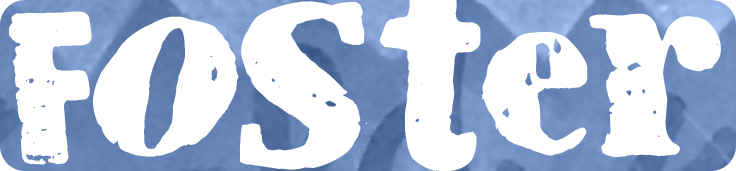
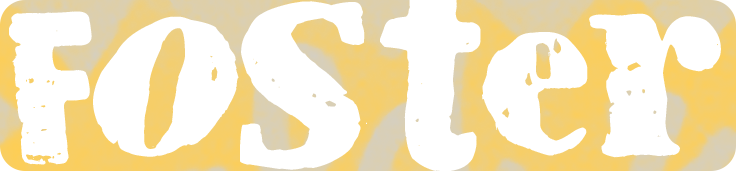
Added yellows

diff --git a/wp-content/themes/tucsoncoldwetnoses/style.css b/wp-content/themes/tucsoncoldwetnoses/style.css
@@ -779,10 +779,10 @@ a:active {
 	box-sizing: content-box;
 	padding: 0;
 	font-family: 'FontAwesome';
-	background-color: rgba(8,181,214,.7) !important;
+	background-color: rgba(246,206,104, .6) !important;
 	border: 0;
 	content: "";
-	color: #000;
+	color: #fff;
 	text-transform: lowercase; /* Stop screen readers from reading the text as capital letters */
 }
 
@@ -799,7 +799,6 @@ a:active {
 .dropdown-toggle:hover,
 .dropdown-toggle:focus {
 	background-color: #08b5d6;
-	color: #000;
 	outline: none;
 }
 
@@ -849,7 +848,7 @@ a:active {
 }
 
 .main-navigation a[href^="https://www.paypal.com/cgi-bin/webscr?cmd=_s-xclick&hosted_button_id=LT92J6FPX9GUN"] {
-	background: rgba(87,102,167,.6);
+	background: rgba(246,206,96,1);
 	font-size: .9em;
 	font-family: 'Cry Kitty';
 	top: -5.5em;
